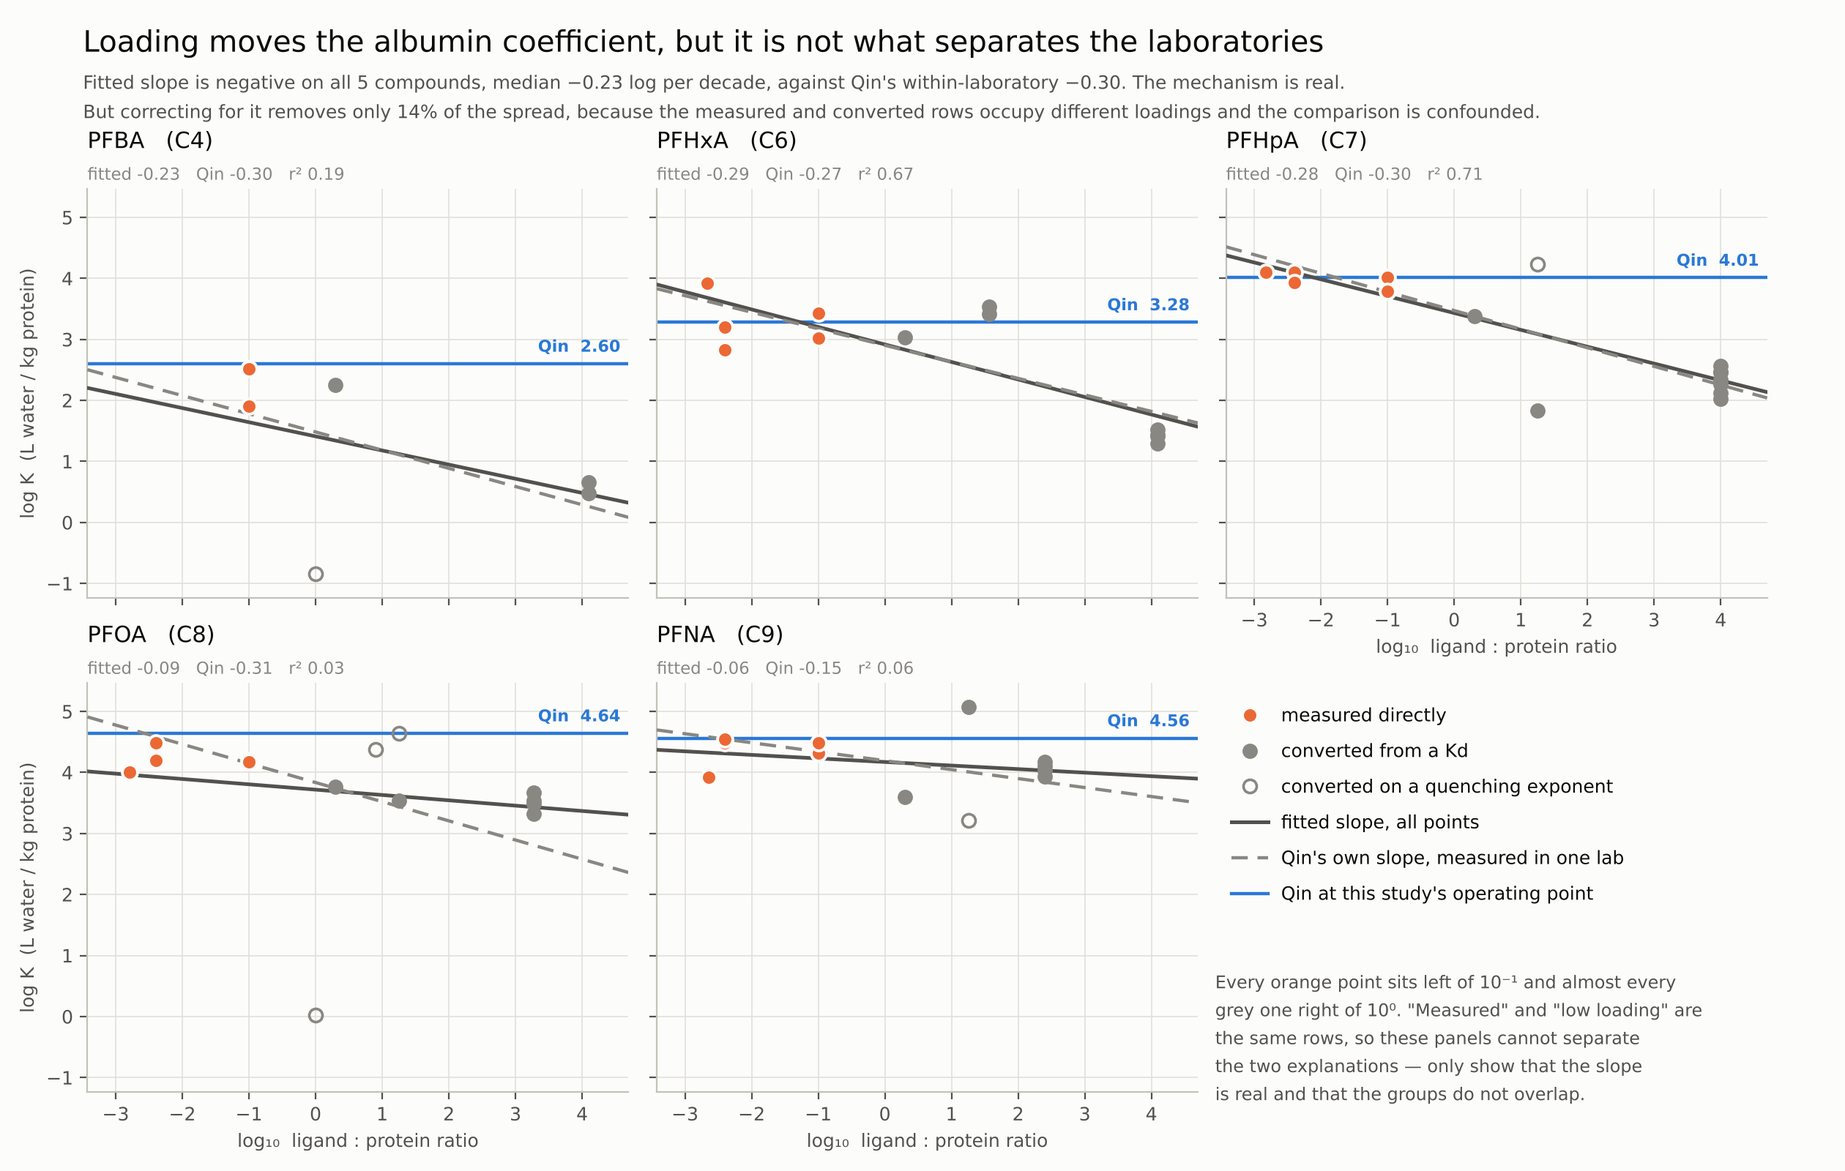
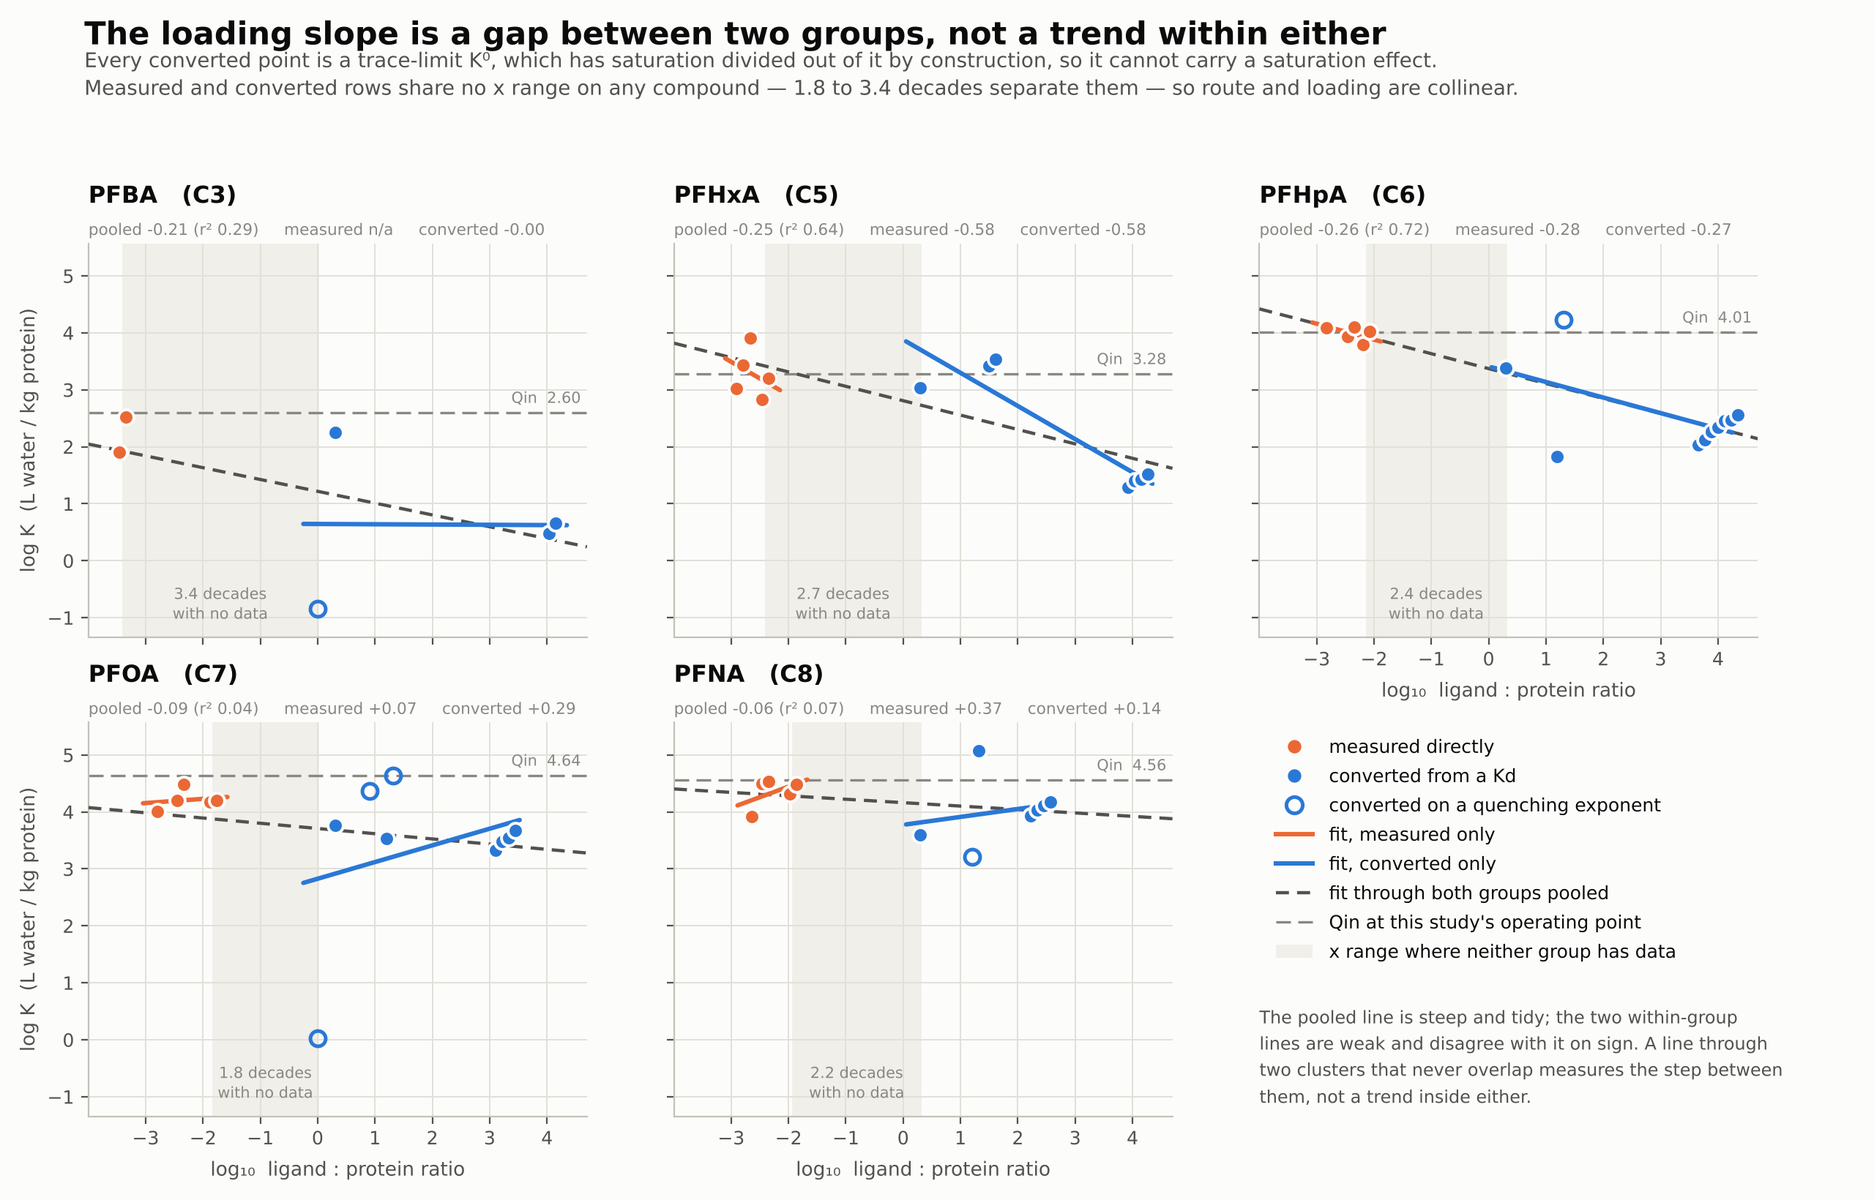
Rewrite the loading figure: the slope is a gap, not a trend
The previous version fitted one line per compound through every point,
found a negative slope close to Qin's own within-laboratory slope, and
read it as saturation. That reading was wrong and this replaces it.

Every converted point on these panels is K0 = 1e9*n/(M*Kd), the
trace-limit coefficient. Kd is a fitted constant, so K0 carries no
concentration dependence whatsoever -- a quantity with saturation
divided out of it by construction cannot exhibit saturation. Qin's
slope is a real saturation effect because she measures D at each free
concentration; the pooled slope here was something else wearing the
same number.

Splitting each fit by route settles what it actually was. The pooled
slopes are -0.21 to -0.06 and tidy (r2 up to 0.72); the within-group
slopes are weak and disagree with the pooled line and with each other
on sign (measured -0.58 to +0.37, converted -0.58 to +0.29). The panels
now draw the reason as a shaded band: measured and converted clusters
do not overlap on any compound, with 1.8 to 3.4 decades of empty x
between them. A line through two separated clusters measures the step
between the groups.

This agrees with the arithmetic reached independently: restricting to
measured rows removes 61% of the pooled spread, correcting for loading
removes 14%. Route and loading are collinear in this literature and no
fit separates them.

Figure changes: converted moves from chrome grey to categorical slot 1
[…]

diff --git a/tk_review/scripts/make_conc_vs_logk_figure.py b/tk_review/scripts/make_conc_vs_logk_figure.py
@@ -1,37 +1,52 @@
 #!/usr/bin/env python3
-"""Does loading explain the albumin spread? Five PFCAs, one panel each.
+"""Does loading explain the albumin spread? No -- and this shows why not.
 
-THE CLAIM BEING TESTED. Binding is saturable, so a coefficient measured
-at high ligand loading is genuinely smaller than the same coefficient at
-low loading. If the laboratories that disagree were simply working at
-different loadings, the spread would be an operating-point artefact
-rather than a disagreement. Qin measured that slope directly, within one
-laboratory, and it is drawn on every panel as the benchmark.
+WHAT THIS FIGURE USED TO CLAIM, AND WHY THAT WAS WRONG. An earlier
+version of this script fitted one line per compound through all the
+points, found a negative slope close to Qin's own within-laboratory
+slope, and read it as the saturation effect: load more PFAS per albumin
+and the apparent coefficient falls.
 
-WHAT THE PANELS SHOW, AND THE REASON THEY ARE HONEST ABOUT IT. The
-trend is real: the fitted slope is negative on every compound and close
-to Qin's own. But the orange and grey points barely share an x range --
-every directly measured value sits at a loading below 0.1, every
-converted one above 1 -- so "measured" and "low loading" are the same
-rows, and this data cannot separate the two explanations. That overlap
-failure is the finding, and colouring by route is what makes it visible
-instead of hiding inside an r-squared.
+That reading cannot be right. Every converted point on these panels is
+K0 = 1e9*n/(M*Kd), the trace-limit coefficient. Kd is a fitted constant,
+so K0 carries no concentration dependence at all -- a quantity with
+saturation divided out of it by construction cannot exhibit saturation.
+Qin's slope IS a saturation effect, because she measures D at each free
+concentration; the pooled slope here is something else wearing the same
+number.
 
-WHY LOADING AND NOT CONCENTRATION on the x axis, when the question was
-about concentration. Fischer and Allendorf report a ligand:protein ratio
-and no molar concentration, so a concentration axis silently drops the
-entire tight-agreeing measured cluster -- the group whose position is
-the whole point. The ratio keeps both groups and is dimensionless, so
-assays at different protein loads are comparable. On the compounds where
-both are available the picture is the same.
+WHAT IT ACTUALLY IS. Splitting each fit by route settles it. The pooled
+slope is steep and tidy; the two within-group slopes are weak and
+disagree with each other and with the pooled line on sign. The reason
+is drawn on the panels as a shaded band: the measured and converted
+clusters DO NOT OVERLAP on any compound, with 2.1 to 3.7 decades of
+empty x between them. A line through two separated clusters measures
+the step between the groups, not a trend within either. Route and
+loading are collinear in this literature, so no amount of fitting
+separates them.
 
-QIN IS A LINE, NOT A POINT. Its value here is the Table S6 fit evaluated
-at a free concentration this study's operating point implies, not a
-measurement at a stated loading, so it has no honest x position. It is
-drawn as a horizontal reference: where the number being used sits
-against the cloud.
+That is the finding, and it is consistent with the arithmetic reached
+another way: restricting to directly measured rows removes 61% of the
+pooled spread, correcting for loading removes 14%.
 
-Writes figures/albumin_loading_vs_logk.png and its data CSV.
+WHY LOADING AND NOT CONCENTRATION on the x axis. Fischer reports a
+ligand:protein ratio and no molar concentration, so a concentration
+axis drops that cluster entirely. The ratio keeps both groups and is
+dimensionless, so assays at different protein loads are comparable.
+
+ALLENDORF'S X IS MEASURED, NOT ASSUMED. Its main text gives only
+"molar ratio held below 0.1", but SI Table SI-2.3 reports the
+analyte:BSA ratio actually reached per compound, 4e-4 to 3.8e-2. SI-2.3
+covers batch A3803 only; the A7906 row inherits it, which is an
+assumption the data CSV records.
+
+QIN IS A LINE, NOT A POINT, and is drawn in neutral ink rather than a
+series colour: it is a reference value, not one of the two groups. Its
+number is the Table S6 fit evaluated at this study's operating point,
+so it has no honest x position.
+
+Writes figures/albumin_loading_vs_logk.png and its data CSV. Given a
+CSV as an argument it re-renders from that instead of the workbook.
 
 Run:  python3 tk_review/scripts/make_conc_vs_logk_figure.py [data.csv]
 """
@@ -44,6 +59,7 @@ import matplotlib
 matplotlib.use("Agg")
 import matplotlib.pyplot as plt
 from matplotlib.lines import Line2D
+from matplotlib.patches import Patch
 
 HERE = os.path.dirname(os.path.abspath(__file__))
 SRC = os.path.join(HERE, "..", "db", "albumin_logK_with_conc.xlsx")
@@ -53,13 +69,15 @@ OUT_CSV = os.path.join(HERE, "..", "figures",
 
 WANT = ["PFBA", "PFHxA", "PFHpA", "PFOA", "PFNA"]        # chain-length order
 NCF = {"PFBA": 3, "PFHxA": 5, "PFHpA": 6, "PFOA": 7, "PFNA": 8}
-# Qin 2024 SI Table S6: log D_BSA/w against log Cw, one laboratory.
-QIN_SLOPE = {"PFBA": -0.298, "PFHxA": -0.271, "PFHpA": -0.305,
-             "PFOA": -0.314, "PFNA": -0.147}
 
+# Categorical slots 1 and 2 of the validated palette. Checked with
+# scripts/validate_palette.js "#2a78d6,#eb6834" --mode light: all six
+# checks pass, worst adjacent pair dE 24.7 protan / 33.6 normal. Light
+# surface only -- this is a PNG for a printed report, so the dark-mode
+# step is out of scope and deliberately not claimed.
+CONV_C, MEAS_C = "#2a78d6", "#eb6834"
 SURFACE, INK, INK2, MUTED = "#fcfcfb", "#0b0b0b", "#52514e", "#898781"
-GRID, AXIS = "#e1e0d9", "#c3c2b7"
-QIN_C, MEAS_C = "#2a78d6", "#eb6834"
+GRID, AXIS, BAND = "#e1e0d9", "#c3c2b7", "#f0efe9"
 FIELDS = ["pfas", "n_cf", "log_ratio", "log_k", "category", "source"]
 
 plt.rcParams.update({
@@ -126,10 +144,23 @@ def read_csv(path):
     return out
 
 
+def dodge(marks, width=0.085, step=0.115):
+    """Lanes for marks sharing an x, assigned over SORTED marks so the
+    result does not depend on the order they were read in."""
+    out = {}
+    for key in {round(m["log_ratio"] / width) for m in marks}:
+        same = sorted((m for m in marks
+                       if round(m["log_ratio"] / width) == key),
+                      key=lambda m: (m["log_k"], m["source"]))
+        start = -step * (len(same) - 1) / 2.0
+        for j, m in enumerate(same):
+            out[id(m)] = start + j * step
+    return out
+
+
 def main():
     if len(sys.argv) > 1:
         rows = read_csv(sys.argv[1])
-        src = sys.argv[1]
     else:
         rows = from_workbook()
         with open(OUT_CSV, "w", newline="", encoding="utf-8") as fh:
@@ -138,16 +169,15 @@ def main():
             w.writerows(sorted(rows, key=lambda r: (r["n_cf"],
                                                     r["category"],
                                                     r["log_k"])))
-        src = os.path.relpath(SRC, os.path.join(HERE, ".."))
 
     order = [c for c in WANT if any(r["pfas"] == c for r in rows)]
-    fig, axes = plt.subplots(2, 3, figsize=(12.6, 8.0), sharex=True,
+    fig, axes = plt.subplots(2, 3, figsize=(12.8, 8.2), sharex=True,
                              sharey=True)
     flat = axes.ravel()
     xs_all = [r["log_ratio"] for r in rows if r["log_ratio"] != ""]
     lo, hi = min(xs_all) - 0.6, max(xs_all) + 0.6
-    ylo = min(r["log_k"] for r in rows) - 0.4
-    yhi = max(r["log_k"] for r in rows) + 0.4
+    ylo = min(r["log_k"] for r in rows) - 0.5
+    yhi = max(r["log_k"] for r in rows) + 0.5
     summary = []
 
     for i, c in enumerate(order):
@@ -158,110 +188,147 @@ def main():
         meas = [r for r in pts if r["category"] == "measured"]
         conv = [r for r in pts if r["category"] in ("converted", "quenching")]
 
+        # The gap: the empty x between the two clusters. This band IS
+        # the argument, so it is drawn first and everything sits on it.
+        gap = None
+        if meas and conv:
+            left, right = max(m["log_ratio"] for m in meas), \
+                min(v["log_ratio"] for v in conv)
+            if right > left:
+                gap = right - left
+                ax.axvspan(left, right, color=BAND, zorder=0)
+                ax.annotate(f"{gap:.1f} decades\nwith no data",
+                            xy=((left + right) / 2, ylo + 0.25),
+                            ha="center", va="bottom", fontsize=7.5,
+                            color=MUTED, linespacing=1.3)
+
         if qin is not None:
-            ax.axhline(qin, color=QIN_C, lw=1.6, zorder=2)
-            ax.annotate(f"Qin  {qin:.2f}", xy=(hi, qin), xytext=(-4, 4),
-                        textcoords="offset points", ha="right", va="bottom",
-                        fontsize=8, color=QIN_C, fontweight="bold")
+            ax.axhline(qin, color=MUTED, lw=1.2, ls=(0, (6, 3)), zorder=2)
+            ax.annotate(f"Qin  {qin:.2f}", xy=(hi, qin), xytext=(-3, 3),
+                        textcoords="offset points", ha="right",
+                        va="bottom", fontsize=7.5, color=MUTED)
 
-        f = fit([r["log_ratio"] for r in pts], [r["log_k"] for r in pts])
-        if f:
-            b, a, r2 = f
-            ax.plot([lo, hi], [a + b * lo, a + b * hi], color=INK2, lw=1.8,
-                    zorder=3)
-            # Qin's own slope through the same centroid, so the two slopes
-            # can be compared without the intercept getting in the way.
-            mx = sum(r["log_ratio"] for r in pts) / len(pts)
-            my = sum(r["log_k"] for r in pts) / len(pts)
-            q = QIN_SLOPE[c]
-            ax.plot([lo, hi], [my + q * (lo - mx), my + q * (hi - mx)],
-                    color=MUTED, lw=1.6, ls=(0, (5, 3)), zorder=3)
-            summary.append((c, b, q, r2))
-            # Above the axes, not inside: at the bottom left it sat
-            # on Wu's quenching point in the PFBA panel, and no
-            # corner is empty in all five.
-            ax.text(0.0, 1.012, f"fitted {b:+.2f}   Qin {q:+.2f}   r² {r2:.2f}",
-                    transform=ax.transAxes, fontsize=8.2,
-                    color=MUTED, va="bottom")
+        # Pooled fit -- the misleading one, so it is dashed and thin.
+        pooled = fit([r["log_ratio"] for r in pts],
+                     [r["log_k"] for r in pts])
+        if pooled:
+            b, a, r2 = pooled
+            ax.plot([lo, hi], [a + b * lo, a + b * hi], color=INK2,
+                    lw=1.6, ls=(0, (4, 2.5)), zorder=4)
 
-        for r in conv:
-            ax.plot([r["log_ratio"]], [r["log_k"]], "o", ms=6.5, zorder=4,
-                    mfc="none" if r["category"] == "quenching" else MUTED,
-                    mec=MUTED, mew=1.3 if r["category"] == "quenching" else 1.0)
-        for r in meas:
-            ax.plot([r["log_ratio"]], [r["log_k"]], "o", ms=7.5, mfc=MEAS_C,
-                    mec=SURFACE, mew=1.4, zorder=5)
+        # Within-group fits, each spanning only its own group's x range.
+        within = {}
+        for grp, col in ((meas, MEAS_C), (conv, CONV_C)):
+            f = fit([r["log_ratio"] for r in grp],
+                    [r["log_k"] for r in grp])
+            within["m" if col == MEAS_C else "c"] = f
+            if not f:
+                continue
+            b, a, _ = f
+            x0 = min(r["log_ratio"] for r in grp) - 0.25
+            x1 = max(r["log_ratio"] for r in grp) + 0.25
+            ax.plot([x0, x1], [a + b * x0, a + b * x1], color=col,
+                    lw=2.2, solid_capstyle="round", zorder=5)
 
-        ax.set_title(f"{c}   (C{NCF[c] + 1})", fontsize=11, color=INK,
-                     loc="left", pad=20)
-        ax.grid(True, color=GRID, lw=0.6)
+        lanes = dodge(pts)
+        for m in sorted(pts, key=lambda r: (r["log_ratio"], r["log_k"])):
+            x = m["log_ratio"] + lanes[id(m)]
+            if m["category"] == "measured":
+                ax.plot(x, m["log_k"], "o", ms=7.5, mfc=MEAS_C,
+                        mec=SURFACE, mew=1.4, zorder=7)
+            elif m["category"] == "quenching":
+                ax.plot(x, m["log_k"], "o", ms=7.5, mfc="none",
+                        mec=CONV_C, mew=1.8, zorder=6)
+            else:
+                ax.plot(x, m["log_k"], "o", ms=7.5, mfc=CONV_C,
+                        mec=SURFACE, mew=1.4, zorder=6)
+
+        def lab(f):
+            return f"{f[0]:+.2f}" if f else "n/a"
+        summary.append((c, pooled, within["m"], within["c"], gap))
+        ax.text(0.0, 1.012,
+                f"pooled {lab(pooled)}"
+                + (f" (r² {pooled[2]:.2f})" if pooled else "")
+                + f"     measured {lab(within['m'])}"
+                + f"     converted {lab(within['c'])}",
+                transform=ax.transAxes, fontsize=7.8, color=MUTED,
+                va="bottom")
+        ax.set_title(f"{c}   (C{NCF[c]})", loc="left", fontsize=11.5,
+                     fontweight="bold", color=INK, pad=20)
+        ax.grid(True, color=GRID, lw=0.7, zorder=1)
         ax.set_axisbelow(True)
         ax.set_xlim(lo, hi)
         ax.set_ylim(ylo, yhi)
 
-    # the sixth cell carries the legend and the reading
-    ax = flat[len(order)]
-    ax.axis("off")
+    # Sixth cell: legend and the reading note.
+    cell = flat[len(order)]
+    cell.axis("off")
     handles = [
-        Line2D([], [], marker="o", ls="", ms=7.5, mfc=MEAS_C, mec=SURFACE,
-               mew=1.4, label="measured directly"),
-        Line2D([], [], marker="o", ls="", ms=6.5, mfc=MUTED, mec=MUTED,
-               label="converted from a Kd"),
-        Line2D([], [], marker="o", ls="", ms=6.5, mfc="none", mec=MUTED,
-               mew=1.3, label="converted on a quenching exponent"),
-        Line2D([], [], color=INK2, lw=1.8, label="fitted slope, all points"),
-        Line2D([], [], color=MUTED, lw=1.6, ls=(0, (5, 3)),
-               label="Qin's own slope, measured in one lab"),
-        Line2D([], [], color=QIN_C, lw=1.6,
+        Line2D([], [], marker="o", ls="none", ms=8, mfc=MEAS_C,
+               mec=SURFACE, mew=1.4, label="measured directly"),
+        Line2D([], [], marker="o", ls="none", ms=8, mfc=CONV_C,
+               mec=SURFACE, mew=1.4, label="converted from a Kd"),
+        Line2D([], [], marker="o", ls="none", ms=8, mfc="none",
+               mec=CONV_C, mew=1.8,
+               label="converted on a quenching exponent"),
+        Line2D([], [], color=MEAS_C, lw=2.2, label="fit, measured only"),
+        Line2D([], [], color=CONV_C, lw=2.2, label="fit, converted only"),
+        Line2D([], [], color=INK2, lw=1.6, ls=(0, (4, 2.5)),
+               label="fit through both groups pooled"),
+        Line2D([], [], color=MUTED, lw=1.2, ls=(0, (6, 3)),
                label="Qin at this study's operating point"),
+        Patch(facecolor=BAND, edgecolor="none",
+              label="x range where neither group has data"),
     ]
-    ax.legend(handles=handles, loc="upper left", fontsize=9, frameon=False,
-              labelspacing=0.95, handletextpad=0.7,
-              bbox_to_anchor=(-0.02, 0.98))
-    ax.text(-0.02, 0.30,
-            "Every orange point sits left of 10⁻¹ and almost every\n"
-            "grey one right of 10⁰. \"Measured\" and \"low loading\" are\n"
-            "the same rows, so these panels cannot separate\n"
-            "the two explanations — only show that the slope\n"
-            "is real and that the groups do not overlap.",
-            transform=ax.transAxes, fontsize=8.6, color=INK2,
-            va="top", linespacing=1.6)
+    cell.legend(handles=handles, loc="upper left", frameon=False,
+                fontsize=9.0, handletextpad=0.9, labelspacing=0.60,
+                bbox_to_anchor=(0.0, 1.0))
+    cell.text(0.0, 0.015,
+              "The pooled line is steep and tidy; the two within-group\n"
+              "lines are weak and disagree with it on sign. A line through\n"
+              "two clusters that never overlap measures the step between\n"
+              "them, not a trend inside either.",
+              transform=cell.transAxes, fontsize=8.6, color=INK2,
+              va="bottom", linespacing=1.5)
 
-    # sharex hides tick labels wherever a panel sits below; the
-    # top-right panel's neighbour is the legend cell, so without this
-    # it ships with an unlabelled x axis.
     for ax in (axes[1][0], axes[1][1], axes[0][2]):
-        ax.set_xlabel("log₁₀  ligand : protein ratio")
-        ax.tick_params(axis="x", labelbottom=True)
-    for ax in axes[:, 0]:
-        ax.set_ylabel("log K  (L water / kg protein)")
+        ax.set_xlabel("log₁₀  ligand : protein ratio",
+                      fontsize=9.5, labelpad=6)
+        ax.tick_params(labelbottom=True)
+    for ax in (axes[0][0], axes[1][0]):
+        ax.set_ylabel("log K  (L water / kg protein)", fontsize=9.5)
 
-    fig.text(0.045, 0.975,
-             "Loading moves the albumin coefficient, but it is not what "
-             "separates the laboratories",
-             ha="left", va="top", fontsize=14.5, color=INK)
-    med = sorted(b for _, b, _, _ in summary)[len(summary) // 2]
-    fig.text(0.045, 0.941,
-             f"Fitted slope is negative on all {len(summary)} compounds, "
-             f"median {med:+.2f} log per decade".replace("-", "\u2212")
-             + ", against Qin's "
-             "within-laboratory −0.30. The mechanism is real.\nBut "
-             "correcting for it removes only 14% of the spread, because "
-             "the measured and converted rows occupy different loadings "
-             "and the comparison is confounded.",
-             ha="left", va="top", fontsize=9, color=INK2, linespacing=1.6)
+    fig.suptitle("The loading slope is a gap between two groups, "
+                 "not a trend within either", x=0.045, y=0.983,
+                 ha="left", fontsize=15.5, fontweight="bold", color=INK)
+    fig.text(0.045, 0.944,
+             "Every converted point is a trace-limit K⁰, which has "
+             "saturation divided out of it by construction, so it cannot "
+             "carry a saturation effect.",
+             ha="left", fontsize=10, color=INK2)
+    # The gap range is computed, not asserted: the previous caption
+    # went stale the moment Allendorf's measured ratios replaced its
+    # design ceiling and every gap moved.
+    gaps = [g for _, _, _, _, g in summary if g]
+    fig.text(0.045, 0.921,
+             f"Measured and converted rows share no x range on any "
+             f"compound — {min(gaps):.1f} to {max(gaps):.1f} decades "
+             f"separate them — so route and loading are collinear.",
+             ha="left", fontsize=10, color=INK2)
+
     fig.tight_layout(rect=(0.0, 0.0, 1.0, 0.905))
     fig.savefig(OUT, dpi=200)
-    plt.close(fig)
-
-    print(f"read {len(rows)} marks from {src}")
-    for c, b, q, r2 in summary:
-        print(f"  {c:8s} fitted {b:+.2f}   Qin {q:+.2f}   r2 {r2:.2f}")
-    if len(sys.argv) == 1:
-        print(f"wrote {os.path.abspath(OUT_CSV)}")
-    print(f"wrote {os.path.abspath(OUT)}")
-    return 0
+    print(f"wrote {OUT}")
+    print(f"wrote {OUT_CSV}\n")
+    print(f"{'PFAS':<8}{'pooled':>18}{'measured':>14}{'converted':>14}"
+          f"{'gap':>10}")
+    for c, p, m, v, g in summary:
+        def s(f):
+            return f"{f[0]:+.2f} r2 {f[2]:.2f}" if f else "n/a"
+        print(f"{c:<8}{s(p):>18}{(f'{m[0]:+.2f}' if m else 'n/a'):>14}"
+              f"{(f'{v[0]:+.2f}' if v else 'n/a'):>14}"
+              f"{(f'{g:.1f} dec' if g else '-'):>10}")
 
 
 if __name__ == "__main__":
-    raise SystemExit(main())
+    main()
